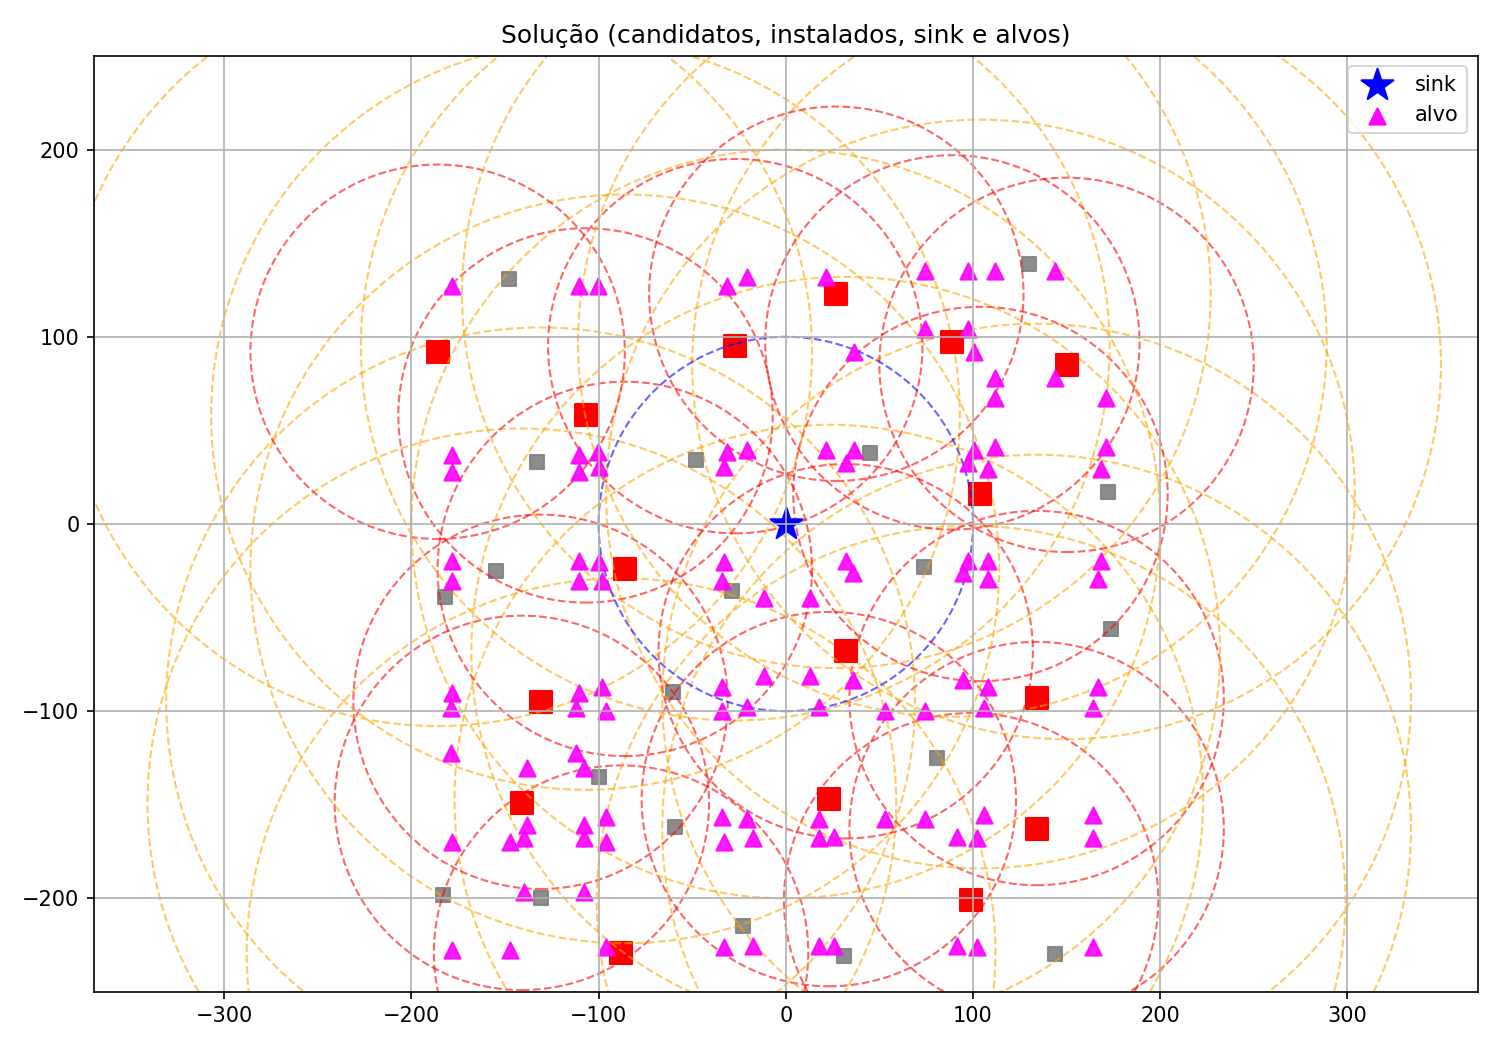
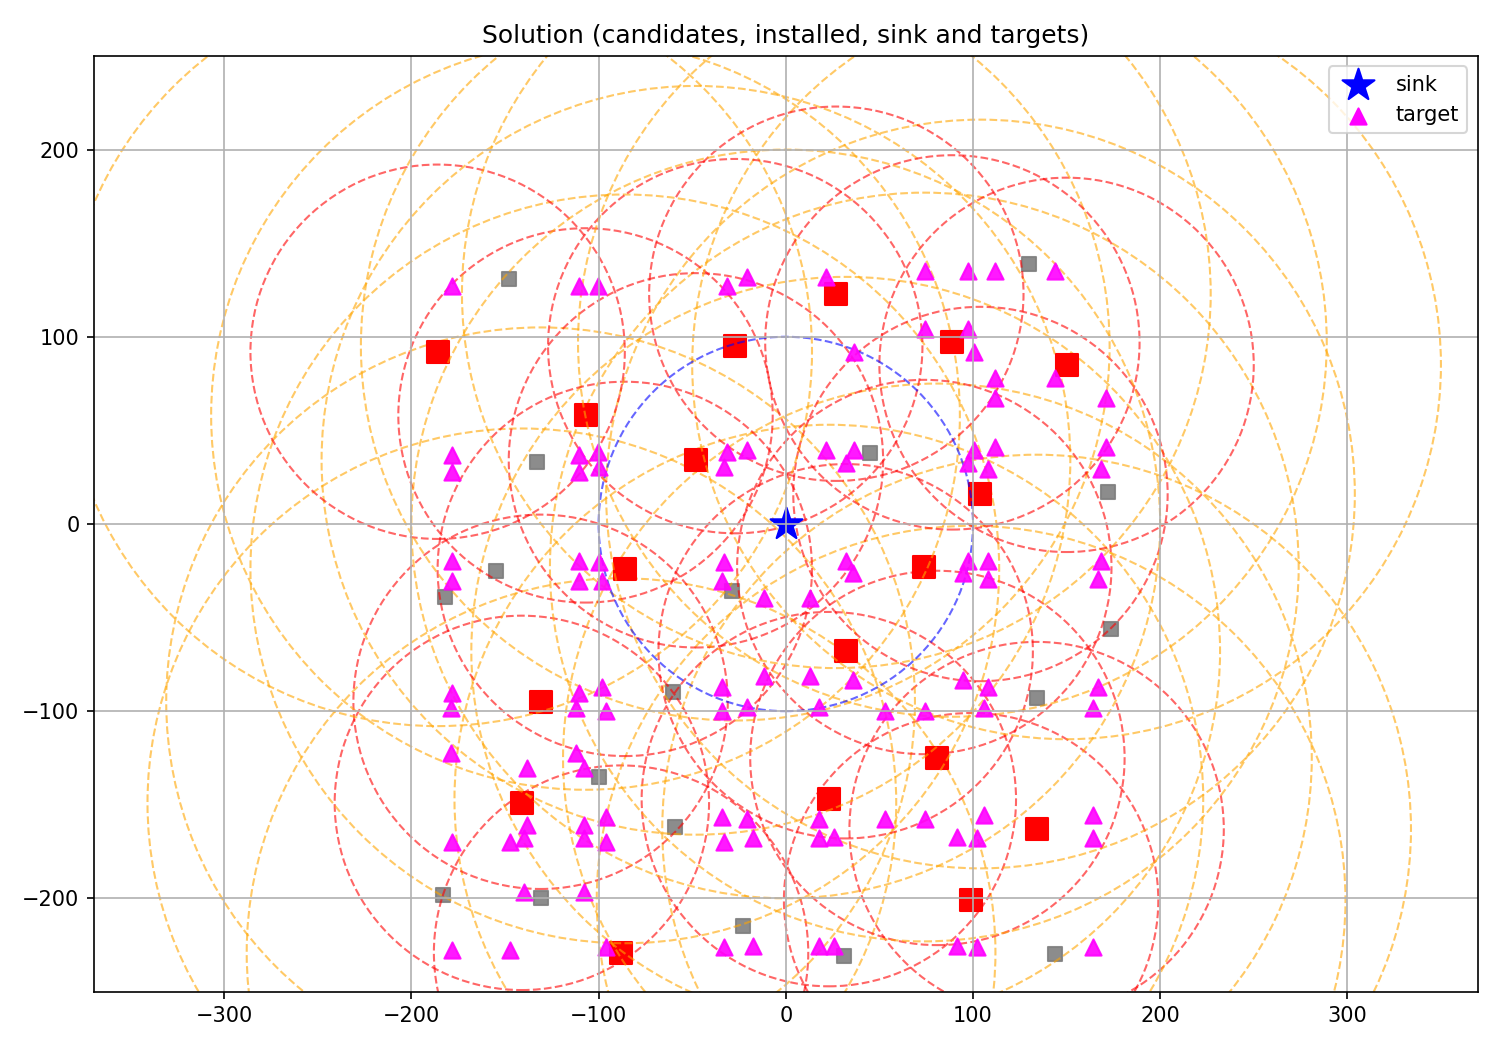
update: revised model implementation for target.py

diff --git a/wsn-target/target.py b/wsn-target/target.py
@@ -49,6 +49,9 @@ w_install = float(sim.get("w_install", 1e6))    # peso w da instalação no obje
 k_cov     = int(sim.get("k_coverage", 2))       # nível de cobertura k
 g_conn    = int(sim.get("g_connectivity", 1))   # nível de conectividade g
 M_max     = float(sim.get("M_max", 1e4))        # big-M global para as capacidades de fluxo
+lambda_thr = float(sim.get("lambda_thr", 1.0))  # λ do termo de throughput no objetivo
+G_max      = float(sim.get("G_max", 3000.0))    # G_max: limite superior de g_j quando y_j=1
+alpha = float(sim.get("alpha_thr", 0.9))
 
 # ------------------------------
 # sink e nós fixos candidatos
@@ -173,17 +176,24 @@ for (u, v) in E:
         lb=0.0,
         name=f"x_{u[0]}_{u[1]}__{v[0]}_{v[1]}"
     )
+    
+# g_j (throughput gerado pelo nó j)
+g = {
+    j: mdl.addVar(lb=0.0, ub=G_max, name=f"g_{j[0]}_{j[1]}")
+    for j in J
+}
 
 mdl.update()
 
 # --------------------------------------------
 # Objetivo (modelo target)
-#   min  w * sum_j y_j  +  sum_(i,j) e_ij z_ij
+#   min  w * sum_j y_j  +  sum_(i,j) e_ij z_ij  - lambda * sum_j g_j
 # --------------------------------------------
 obj_install = gp.quicksum(y[j] for j in J)
 obj_edges   = gp.quicksum(e_cost[(u, v)] * z[(u, v)] for (u, v) in E)
+obj_thr     = gp.quicksum(g[j] for j in J)
 
-mdl.setObjective(w_install * obj_install + obj_edges, GRB.MINIMIZE)
+mdl.setObjective(w_install * obj_install + obj_edges - lambda_thr * obj_thr, GRB.MINIMIZE)
 
 # --------------------------------------------
 # Restrições
@@ -216,6 +226,17 @@ for j in J:
     mdl.addConstr(
         incident >= g_conn * y[j],
         name=f"g_conn_{j[1]}"
+    )
+    
+# (g bound) alpha * y_i <= g_j <= G_max * y_j
+for j in J:
+    mdl.addConstr(
+        g[j] <=  G_max * y[j],
+        name=f"g_le_Gmax_y_{j[1]}"
+    )
+    mdl.addConstr(
+        g[j] >= alpha * G_max * y[j],
+        name=f"g_ge_alpha_y_{j[1]}"
     )
 
 # (Link só pode ativar se extremos instalados)
@@ -253,7 +274,7 @@ for j in J:
         xvar[(u, j)] for (u, v) in E if v == j
     )
     mdl.addConstr(
-        outflow - inflow == y[j],
+        outflow - inflow == g[j],
         name=f"flow_cons_{j[1]}"
     )
 
@@ -262,12 +283,10 @@ for j in J:
 inflow_sink = gp.quicksum(
     xvar[(u, sink)] for (u, v) in E if v == sink
 )
-total_y = gp.quicksum(y[j] for j in J)
 
-mdl.addConstr(
-    inflow_sink == total_y,
-    name="flow_sink_in"
-)
+total_g = gp.quicksum(g[j] for j in J)
+mdl.addConstr(inflow_sink == total_g, name="flow_sink_in")
+
 
 # opcional: sink não envia fluxo
 outflow_sink = gp.quicksum(

diff --git a/README.md b/README.md
@@ -53,12 +53,6 @@ $$
   & 0\le x_{ij}(t)\le C_{ij}(t)\,z_{ij}(t), 
   && \forall (i,j)\in\mathcal E_t,\ \forall t\in\mathcal T,
   \\
-  & 0\le g_m(t) \le b_{m,t}, 
-  && \forall m\in\mathcal{M},\ \forall t\in\mathcal{T}
-  \\
-  & g_m(t) \ge \alpha b_{m,t}, 
-  && \forall m\in\mathcal{M},\ \forall t\in\mathcal{T},\ \text{fixed }\alpha\in(0,1]
-  \\
   & \sum_{i:(m,i)\in \mathcal E_t} x_{mi}(t) - \sum_{i:(i,m)\in \mathcal E_t} x_{im}(t) = g_m(t),
   && \forall m\in\mathcal M,\ \forall t\in\mathcal T,
   \\
@@ -74,7 +68,7 @@ $$
   & z_{ij}(t)\in\lbrace0,1\rbrace,\quad x_{ij}(t)\ge 0, 
   && \forall (i,j)\in\mathcal{E}_t,\ \forall t\in\mathcal T
   \\
-  & g_m(t)\ge 0, && \forall m\in\mathcal{M}, \ \forall t\in\mathcal{T}.
+  & \alpha b_{m} \le g_m(t) \le b_{m}, && \forall m\in\mathcal{M}, \ \forall t\in\mathcal{T}.
 \end{aligned}
 $$
 
@@ -110,8 +104,8 @@ $$
   & 0 \le x_{ij} \le M_{\max}\,z_{ij},
   && \forall (i,j)\in\mathcal{E}, 
   \\
-  & 0 \le g_j \le G_{\max}y_j
-  && \forall j\in\mathcal{J}
+  & \alpha G_{\max}y_j \le g_j \le G_{\max}y_j,
+  && \forall j\in\mathcal{J},
   \\
   & \sum_{i:(j,i)\in\mathcal{E}} x_{ji}
       - \sum_{i:(i,j)\in\mathcal{E}} x_{ij}
@@ -133,7 +127,10 @@ $$
   && \forall j\in\mathcal{J},
   \\
   & z_{ij} \in \lbrace0,1\rbrace,\quad x_{ij} \ge 0,
-  && \forall (i,j)\in\mathcal{E}.
+  && \forall (i,j)\in\mathcal{E},
+  \\
+  & g_j \ge 0,
+  && \forall j\in\mathcal{J}.
 \end{aligned}
 $$
 
